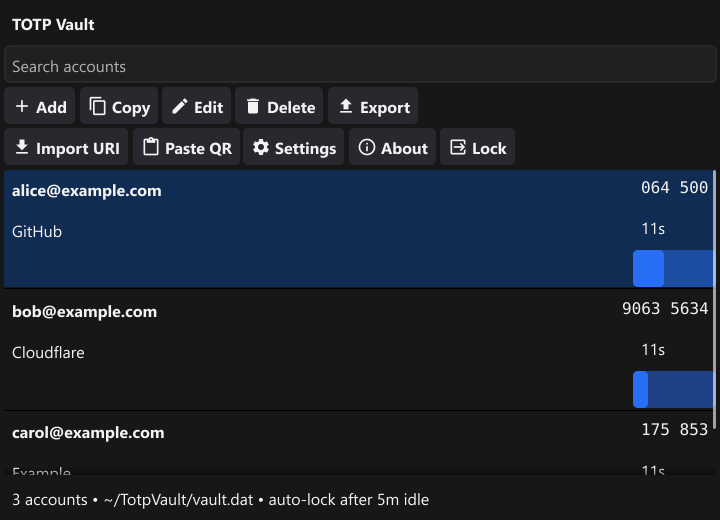
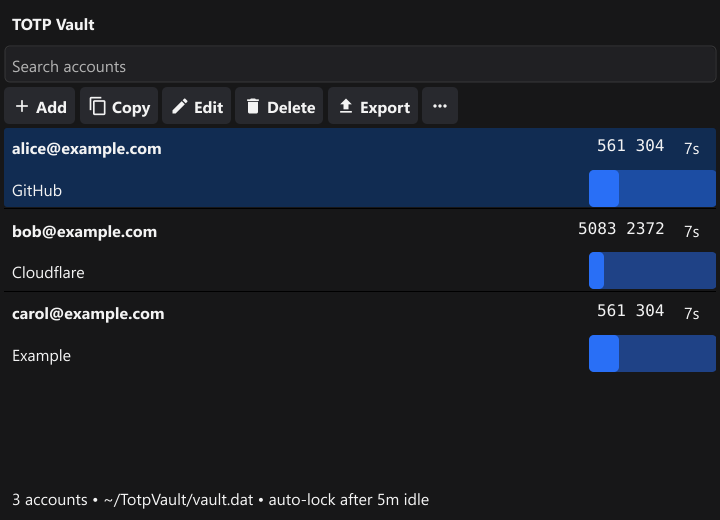
ui/i18n: single-row toolbar with overflow menu, Ctrl+C copy, condensed rows

diff --git a/internal/ui/ui.go b/internal/ui/ui.go
@@ -17,6 +17,7 @@ import (
 	"fyne.io/fyne/v2/canvas"
 	"fyne.io/fyne/v2/container"
 	"fyne.io/fyne/v2/dialog"
+	"fyne.io/fyne/v2/driver/desktop"
 	"fyne.io/fyne/v2/theme"
 	"fyne.io/fyne/v2/widget"
 	"github.com/spapas/totpvault/internal/i18n"
@@ -325,11 +326,12 @@ func (c *controller) main() {
 	c.list = widget.NewList(func() int { return len(c.visible) }, func() fyne.CanvasObject {
 		code := widget.NewLabelWithStyle("000 000", fyne.TextAlignTrailing, fyne.TextStyle{Monospace: true, Bold: true})
 		count := widget.NewLabel("30s")
+		top := container.NewHBox(code, count)
 		bar := widget.NewProgressBar()
 		bar.Min = 0
 		bar.Max = 1
 		bar.TextFormatter = func() string { return "" }
-		return container.NewBorder(nil, nil, nil, container.NewVBox(code, count, bar), container.NewVBox(widget.NewLabelWithStyle(c.t("acct.f_account"), fyne.TextAlignLeading, fyne.TextStyle{Bold: true}), widget.NewLabel(c.t("acct.f_issuer"))))
+		return container.NewBorder(nil, nil, nil, container.NewVBox(top, bar), container.NewVBox(widget.NewLabelWithStyle(c.t("acct.f_account"), fyne.TextAlignLeading, fyne.TextStyle{Bold: true}), widget.NewLabel(c.t("acct.f_issuer"))))
 	}, func(id widget.ListItemID, obj fyne.CanvasObject) {
 		if id < 0 || id >= len(c.visible) {
 			return
@@ -340,14 +342,17 @@ func (c *controller) main() {
 		right := row.Objects[1].(*fyne.Container)
 		left.Objects[0].(*widget.Label).SetText(a.Name)
 		left.Objects[1].(*widget.Label).SetText(a.Issuer)
+		pair := right.Objects[0].(*fyne.Container)
+		codeLabel := pair.Objects[0].(*widget.Label)
+		countLabel := pair.Objects[1].(*widget.Label)
+		bar := right.Objects[1].(*widget.ProgressBar)
 		if c.hideCodes && c.visible[id] != c.selected {
 			nowUnix := time.Now().Unix()
 			rem := a.Period - int(nowUnix%int64(a.Period))
-			right.Objects[0].(*widget.Label).SetText("••• •••")
-			countLabel := right.Objects[1].(*widget.Label)
+			codeLabel.SetText("••• •••")
 			countLabel.TextStyle = fyne.TextStyle{Bold: rem <= 5}
 			countLabel.SetText(fmt.Sprintf("%ds", rem))
-			right.Objects[2].(*widget.ProgressBar).SetValue(float64(rem) / float64(a.Period))
+			bar.SetValue(float64(rem) / float64(a.Period))
 			return
 		}
 		code, remaining, err := totp.Code(a, time.Now())
@@ -359,11 +364,10 @@ func (c *controller) main() {
 		} else if len(code) == 8 {
 			code = code[:4] + " " + code[4:]
 		}
-		right.Objects[0].(*widget.Label).SetText(code)
-		countLabel := right.Objects[1].(*widget.Label)
+		codeLabel.SetText(code)
 		countLabel.TextStyle = fyne.TextStyle{Bold: err == nil && remaining <= 5}
 		countLabel.SetText(fmt.Sprintf("%ds", remaining))
-		right.Objects[2].(*widget.ProgressBar).SetValue(float64(remaining) / float64(a.Period))
+		bar.SetValue(float64(remaining) / float64(a.Period))
 	})
 	c.list.OnSelected = func(id widget.ListItemID) {
 		c.touch()
@@ -373,14 +377,10 @@ func (c *controller) main() {
 	}
 	c.list.OnUnselected = func(widget.ListItemID) { c.selectAccount(-1) }
 	add := widget.NewButtonWithIcon(c.t("btn.add"), theme.ContentAddIcon(), func() { c.touch(); c.accountDialog(-1) })
-	importURI := widget.NewButtonWithIcon(c.t("btn.import_uri"), theme.DownloadIcon(), c.importDialog)
-	pasteQR := widget.NewButtonWithIcon(c.t("btn.paste_qr"), theme.ContentPasteIcon(), c.pasteQRImage)
-	lock := widget.NewButtonWithIcon(c.t("btn.lock"), theme.LogoutIcon(), c.lock)
-	settings := widget.NewButtonWithIcon(c.t("btn.settings"), theme.SettingsIcon(), c.settings)
-	about := widget.NewButtonWithIcon(c.t("btn.about"), theme.InfoIcon(), c.aboutDialog)
-	row1 := container.NewHBox(add, c.copy, c.edit, c.delete, c.export)
-	row2 := container.NewHBox(importURI, pasteQR, settings, about, lock)
-	c.w.SetContent(container.NewBorder(container.NewVBox(widget.NewLabelWithStyle(c.t("main.title"), fyne.TextAlignLeading, fyne.TextStyle{Bold: true}), c.search, row1, row2), c.status, nil, nil, c.list))
+	var more *widget.Button
+	more = widget.NewButtonWithIcon("", theme.MoreHorizontalIcon(), func() { c.touch(); c.showMoreMenu(more) })
+	bar := container.NewHBox(add, c.copy, c.edit, c.delete, c.export, more)
+	c.w.SetContent(container.NewBorder(container.NewVBox(widget.NewLabelWithStyle(c.t("main.title"), fyne.TextAlignLeading, fyne.TextStyle{Bold: true}), c.search, bar), c.status, nil, nil, c.list))
 	// Enter copies the selected code (unless typing in a text field).
 	c.w.Canvas().SetOnTypedKey(func(e *fyne.KeyEvent) {
 		if e.Name != fyne.KeyReturn && e.Name != fyne.KeyEnter {
@@ -391,7 +391,35 @@ func (c *controller) main() {
 		}
 		c.copyCode()
 	})
+	// Ctrl+C copies the selected code, unless a dialog is open or an entry
+	// has focus (the entry keeps its own copy-text shortcut then).
+	c.w.Canvas().AddShortcut(&desktop.CustomShortcut{KeyName: fyne.KeyC, Modifier: fyne.KeyModifierControl},
+		func(fyne.Shortcut) {
+			if len(c.dialogs) > 0 {
+				return
+			}
+			if _, ok := c.w.Canvas().Focused().(*widget.Entry); ok {
+				return
+			}
+			c.copyCode()
+		})
 	c.filter()
+}
+
+// showMoreMenu opens the overflow menu for vault/app actions that do not
+// need a selected account.
+func (c *controller) showMoreMenu(anchor fyne.CanvasObject) {
+	m := fyne.NewMenu("",
+		fyne.NewMenuItem(c.t("btn.import_uri"), func() { c.importDialog() }),
+		fyne.NewMenuItem(c.t("btn.paste_qr"), func() { c.pasteQRImage() }),
+		fyne.NewMenuItemSeparator(),
+		fyne.NewMenuItem(c.t("btn.settings"), func() { c.settings() }),
+		fyne.NewMenuItem(c.t("btn.about"), func() { c.aboutDialog() }),
+		fyne.NewMenuItem(c.t("btn.lock"), func() { c.lock() }),
+	)
+	pop := widget.NewPopUpMenu(m, c.w.Canvas())
+	bounds := anchor.Size()
+	pop.ShowAtRelativePosition(fyne.NewPos(0, bounds.Height), anchor)
 }
 
 func (c *controller) filter() {

diff --git a/internal/i18n/el.go b/internal/i18n/el.go
@@ -91,7 +91,7 @@ var elStrings = map[string]string{
 	"settings.err_idle":     "μη έγκυρα λεπτά αδράνειας",
 
 	"about.title": "Πληροφορίες για το TOTP Vault",
-	"about.body":  "Εφαρμογή TOTP εκτός σύνδεσης.\n\nΘησαυροφυλάκιο: %s\nΔημιουργήστε αντίγραφο ασφαλείας του vault.dat σε ασφαλές μέρος — ένας ξεχασμένος κύριος κωδικός δεν μπορεί να ανακτηθεί.\n\nΑν όλοι οι κωδικοί αποτυγχάνουν, ελέγξτε το ρολόι του συστήματος.\n\nΤο Enter αντιγράφει τον επιλεγμένο κωδικό. Αποκρύψτε τους κωδικούς μέχρι την επιλογή στις Ρυθμίσεις.",
+	"about.body":  "Εφαρμογή TOTP εκτός σύνδεσης.\n\nΘησαυροφυλάκιο: %s\nΔημιουργήστε αντίγραφο ασφαλείας του vault.dat σε ασφαλές μέρος — ένας ξεχασμένος κύριος κωδικός δεν μπορεί να ανακτηθεί.\n\nΑν όλοι οι κωδικοί αποτυγχάνουν, ελέγξτε το ρολόι του συστήματος.\n\nΤο Enter ή το Ctrl+C αντιγράφει τον επιλεγμένο κωδικό. Αποκρύψτε τους κωδικούς μέχρι την επιλογή στις Ρυθμίσεις.",
 
 	"dup.account": "διπλότυπος λογαριασμός %q (οι καταχωρήσεις %d και %d έχουν ίδιο όνομα και εκδότη)",
 	"dup.secret":  "διπλότυπο μυστικό (οι καταχωρήσεις %d και %d έχουν το ίδιο κλειδί με ίδιες ρυθμίσεις)",

diff --git a/internal/i18n/it.go b/internal/i18n/it.go
@@ -91,7 +91,7 @@ var itStrings = map[string]string{
 	"settings.err_idle":     "minuti di inattività non validi",
 
 	"about.title": "Informazioni su TOTP Vault",
-	"about.body":  "Autenticatore TOTP offline.\n\nVault: %s\nEsegui il backup di vault.dat in un luogo sicuro — una password principale dimenticata non può essere recuperata.\n\nSe tutti i codici falliscono, controlla l’orologio di sistema.\n\nInvio copia il codice selezionato. Nascondi i codici fino alla selezione nelle Impostazioni.",
+	"about.body":  "Autenticatore TOTP offline.\n\nVault: %s\nEsegui il backup di vault.dat in un luogo sicuro — una password principale dimenticata non può essere recuperata.\n\nSe tutti i codici falliscono, controlla l’orologio di sistema.\n\nInvio o Ctrl+C copia il codice selezionato. Nascondi i codici fino alla selezione nelle Impostazioni.",
 
 	"dup.account": "account duplicato %q (le voci %d e %d condividono nome ed emittente)",
 	"dup.secret":  "segreto duplicato (le voci %d e %d contengono la stessa chiave con impostazioni identiche)",

diff --git a/internal/i18n/fr.go b/internal/i18n/fr.go
@@ -91,7 +91,7 @@ var frStrings = map[string]string{
 	"settings.err_idle":     "minutes d’inactivité invalides",
 
 	"about.title": "À propos de TOTP Vault",
-	"about.body":  "Authentificateur TOTP hors ligne.\n\nCoffre : %s\nSauvegardez vault.dat en lieu sûr — un mot de passe maître oublié ne peut pas être récupéré.\n\nSi tous les codes échouent, vérifiez l’horloge système.\n\nEntrée copie le code sélectionné. Masquez les codes jusqu’à la sélection dans Paramètres.",
+	"about.body":  "Authentificateur TOTP hors ligne.\n\nCoffre : %s\nSauvegardez vault.dat en lieu sûr — un mot de passe maître oublié ne peut pas être récupéré.\n\nSi tous les codes échouent, vérifiez l’horloge système.\n\nEntrée ou Ctrl+C copie le code sélectionné. Masquez les codes jusqu’à la sélection dans Paramètres.",
 
 	"dup.account": "compte en double %q (les entrées %d et %d partagent nom et émetteur)",
 	"dup.secret":  "secret en double (les entrées %d et %d contiennent la même clé avec des paramètres identiques)",

diff --git a/internal/i18n/de.go b/internal/i18n/de.go
@@ -91,7 +91,7 @@ var deStrings = map[string]string{
 	"settings.err_idle":     "ungültige Minuten für Inaktivität",
 
 	"about.title": "Über TOTP Vault",
-	"about.body":  "Offline-TOTP-Authentifikator.\n\nTresor: %s\nSichern Sie vault.dat an einem sicheren Ort — ein vergessenes Masterpasswort kann nicht wiederhergestellt werden.\n\nWenn alle Codes fehlschlagen, prüfen Sie die Systemuhr.\n\nEingabe kopiert den ausgewählten Code. Codes bis zur Auswahl in den Einstellungen ausblenden.",
+	"about.body":  "Offline-TOTP-Authentifikator.\n\nTresor: %s\nSichern Sie vault.dat an einem sicheren Ort — ein vergessenes Masterpasswort kann nicht wiederhergestellt werden.\n\nWenn alle Codes fehlschlagen, prüfen Sie die Systemuhr.\n\nEingabe oder Strg+C kopiert den ausgewählten Code. Codes bis zur Auswahl in den Einstellungen ausblenden.",
 
 	"dup.account": "doppeltes Konto %q (Einträge %d und %d teilen Name und Anbieter)",
 	"dup.secret":  "doppeltes Secret (Einträge %d und %d enthalten denselben Schlüssel mit identischen Einstellungen)",

diff --git a/internal/i18n/es.go b/internal/i18n/es.go
@@ -91,7 +91,7 @@ var esStrings = map[string]string{
 	"settings.err_idle":     "minutos de inactividad no válidos",
 
 	"about.title": "Acerca de TOTP Vault",
-	"about.body":  "Autenticador TOTP sin conexión.\n\nBóveda: %s\nHaz una copia de seguridad de vault.dat en un lugar seguro — una contraseña maestra olvidada no se puede recuperar.\n\nSi todos los códigos fallan, comprueba el reloj del sistema.\n\nIntro copia el código seleccionado. Oculta los códigos hasta seleccionar en Ajustes.",
+	"about.body":  "Autenticador TOTP sin conexión.\n\nBóveda: %s\nHaz una copia de seguridad de vault.dat en un lugar seguro — una contraseña maestra olvidada no se puede recuperar.\n\nSi todos los códigos fallan, comprueba el reloj del sistema.\n\nIntro o Ctrl+C copia el código seleccionado. Oculta los códigos hasta seleccionar en Ajustes.",
 
 	"dup.account": "cuenta duplicada %q (las entradas %d y %d comparten nombre y emisor)",
 	"dup.secret":  "secreto duplicado (las entradas %d y %d contienen la misma clave con ajustes idénticos)",

diff --git a/internal/i18n/zh.go b/internal/i18n/zh.go
@@ -91,7 +91,7 @@ var zhStrings = map[string]string{
 	"settings.err_idle":     "空闲分钟数无效",
 
 	"about.title": "关于 TOTP Vault",
-	"about.body":  "离线 TOTP 验证器。\n\n保管库：%s\n请将 vault.dat 备份到安全位置 — 忘记的主密码无法恢复。\n\n如果所有验证码都失败，请检查系统时钟。\n\n按回车复制所选验证码。可在“设置”中隐藏验证码直到选中。",
+	"about.body":  "离线 TOTP 验证器。\n\n保管库：%s\n请将 vault.dat 备份到安全位置 — 忘记的主密码无法恢复。\n\n如果所有验证码都失败，请检查系统时钟。\n\n按回车或 Ctrl+C 复制所选验证码。可在“设置”中隐藏验证码直到选中。",
 
 	"dup.account": "账户重复 %q（第 %d 和第 %d 条记录的名称和发行方相同）",
 	"dup.secret":  "密钥重复（第 %d 和第 %d 条记录持有相同设置下的同一密钥）",

diff --git a/internal/i18n/en.go b/internal/i18n/en.go
@@ -95,7 +95,7 @@ var enStrings = map[string]string{
 	"settings.err_idle":     "invalid idle minutes",
 
 	"about.title": "About TOTP Vault",
-	"about.body":  "Offline TOTP authenticator.\n\nVault: %s\nBack up vault.dat to a safe place — a forgotten master password cannot be recovered.\n\nIf all codes fail, check the system clock.\n\nEnter copies the selected code. Hide codes until selected in Settings.",
+	"about.body":  "Offline TOTP authenticator.\n\nVault: %s\nBack up vault.dat to a safe place — a forgotten master password cannot be recovered.\n\nIf all codes fail, check the system clock.\n\nEnter or Ctrl+C copies the selected code. Hide codes until selected in Settings.",
 
 	"dup.account": "duplicate account %q (entries %d and %d share name and issuer)",
 	"dup.secret":  "duplicate secret (entries %d and %d hold the same key with identical settings)",

diff --git a/ARCHITECTURE.md b/ARCHITECTURE.md
@@ -140,9 +140,11 @@ keep returning English errors untouched — translation never alters validation.
 - `main()` — search entry + toolbar (Add / Import URI / Paste QR / Copy / Edit / Delete / Export /
   Settings / About / Lock, inside `HScroll`) + `widget.List`. List rows: left (name bold + issuer), right
   (monospace code or `••• •••` when hide-until-selected, `Ns` countdown bold at ≤5s, progress bar).
-  Enter copies the selected code (unless typing in an entry).
-  Two toolbar rows (account actions / vault & app, all with theme icons) replace
-  the old scrolling single row.
+  Enter copies the selected code (unless typing in an entry); Ctrl+C does the
+  same unless a dialog is open or an entry has focus.
+  One toolbar row (account actions + overflow ⋯ menu for vault/app actions)
+  replaces the old two-row strip; every button keeps its theme icon.
+  Rows are condensed: right side is code+countdown on one line over the bar.
   `OnSelected/OnUnselected` → `selectAccount` (enables/disables Copy/Edit/Delete/Export + refresh for masking).
 - Dialogs: `accountDialog` (Add/Edit with name/issuer/secret+show-toggle/digits/period/algorithm,
   validates via `Normalize`; edit verifies the index still holds the same account), `importDialog` (password entry for URI, `ParseURI`),

diff --git a/CHANGELOG.md b/CHANGELOG.md
@@ -5,6 +5,13 @@ Versions are `X.Y.Z` and release tags are `vX.Y.Z` (must match `VERSION`).
 
 ## [Unreleased]
 
+### Changed
+
+- Toolbar is one row (account actions + overflow ⋯ menu for Import / Paste /
+  Settings / About / Lock); Ctrl+C copies the selected code (skipped in
+  dialogs and text fields); rows are condensed to code+countdown on one
+  line over the progress bar.
+
 ## [1.1.0] - 2026-11-06
 
 ### Fixed
